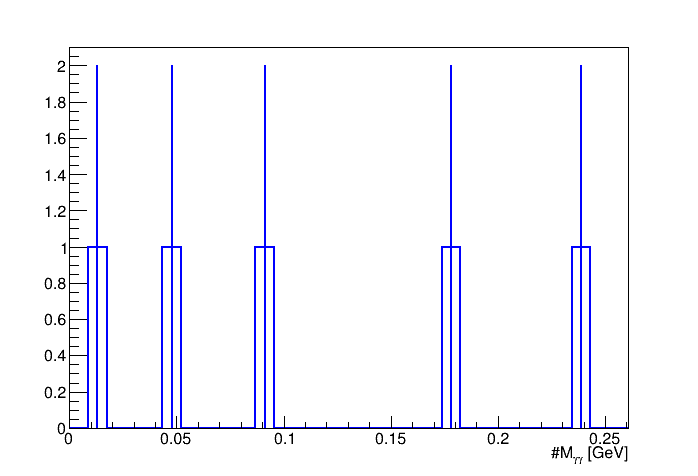
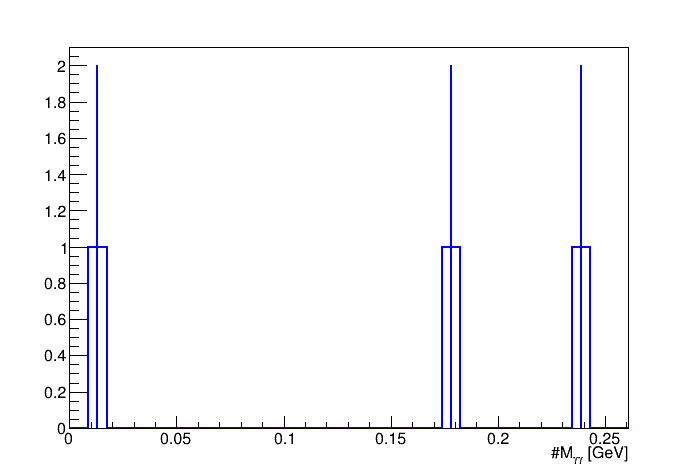
added energy cut to inv mass basic plot

Changed region(s): [[0.361, 0.5, 0.3911, 0.9118], [0.2407, 0.5, 0.2708, 0.9118]]

diff --git a/pyROOT/Scripts/select_diphoton.py b/pyROOT/Scripts/select_diphoton.py
@@ -62,26 +62,26 @@ for event in recTree:
 				conv2 = shw_br["rec.slc.reco.pfp.shw.conversion_gap"][new_idxs[1]]
 				E1 = shw_br["rec.slc.reco.pfp.shw.bestplane_energy"][new_idxs[0]]
 				E2 = shw_br["rec.slc.reco.pfp.shw.bestplane_energy"][new_idxs[1]]
-				dir1x = shw_br["rec.slc.reco.pfp.shw.dir.x"][new_idxs[0]]			
-				dir1y = shw_br["rec.slc.reco.pfp.shw.dir.y"][new_idxs[0]]			
-				dir1z = shw_br["rec.slc.reco.pfp.shw.dir.z"][new_idxs[0]]			
-				dir2x = shw_br["rec.slc.reco.pfp.shw.dir.x"][new_idxs[1]]			
-				dir2y = shw_br["rec.slc.reco.pfp.shw.dir.y"][new_idxs[1]]			
-				dir2z = shw_br["rec.slc.reco.pfp.shw.dir.z"][new_idxs[1]]			
-				dir1 = np.array([dir1x, dir1y, dir1z])
-				dir2 = np.array([dir2x, dir2y, dir2z])
-				costheta = np.dot(dir1, dir2)
-				print("E1", E1, "E2", E2)
-				print("dir1", dir1)
-				print("dir2", dir2)
-				print("conv1", conv1)
-				print("conv2", conv2)
-				print("costheta", costheta)
+				if E1 > 0.05 and E2 > 0.05:
+					dir1x = shw_br["rec.slc.reco.pfp.shw.dir.x"][new_idxs[0]]			
+					dir1y = shw_br["rec.slc.reco.pfp.shw.dir.y"][new_idxs[0]]			
+					dir1z = shw_br["rec.slc.reco.pfp.shw.dir.z"][new_idxs[0]]			
+					dir2x = shw_br["rec.slc.reco.pfp.shw.dir.x"][new_idxs[1]]			
+					dir2y = shw_br["rec.slc.reco.pfp.shw.dir.y"][new_idxs[1]]			
+					dir2z = shw_br["rec.slc.reco.pfp.shw.dir.z"][new_idxs[1]]			
+					dir1 = np.array([dir1x, dir1y, dir1z])
+					dir2 = np.array([dir2x, dir2y, dir2z])
+					costheta = np.dot(dir1, dir2)
+					print("E1", E1, "E2", E2)
+					print("dir1", dir1)
+					print("dir2", dir2)
+					print("conv1", conv1)
+					print("conv2", conv2)
+					print("costheta", costheta)
 			
+					M = np.sqrt(2*E1*E2*(1 - costheta))
 
-				M = np.sqrt(2*E1*E2*(1 - costheta))
-
-				diphoton_inv_mass.append(M)
+					diphoton_inv_mass.append(M)
 
 	# increment the event count before going to the next event
 	evCount += 1
